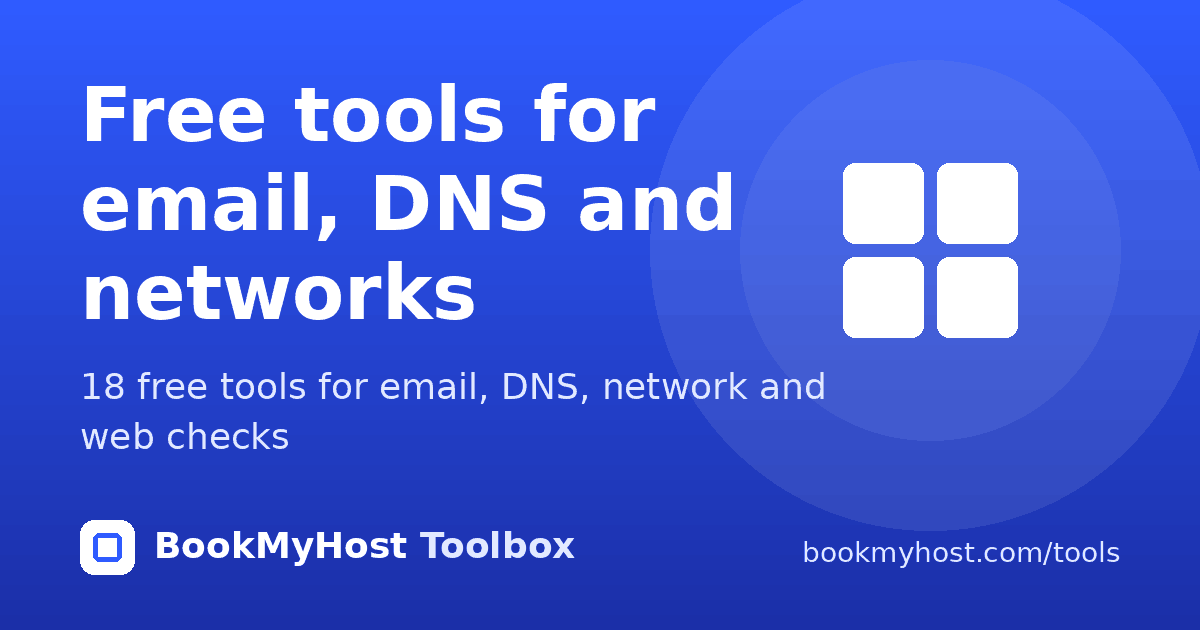
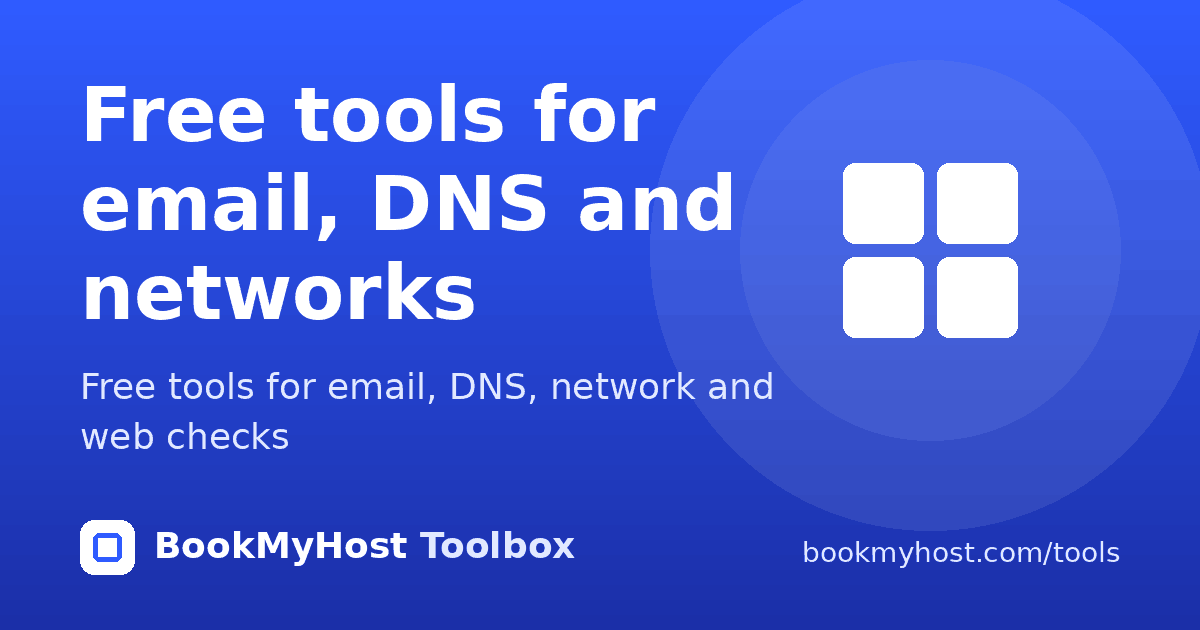
toolbox gui-v3 slice B: problem-first hub, filter, recents, single calculator listing

Changed region(s): [[0.0617, 0.573, 0.7092, 0.6333]]

diff --git a/app/templates/index.html b/app/templates/index.html
@@ -1,30 +1,77 @@
 {% extends "shell.html" %}
 {% from "_icons.html" import icon %}
-{% block intro %}
-<h1 class="text-3xl font-bold mb-2">Free network and DNS tools</h1>
-<p class="text-mute max-w-2xl mb-8">Fast, single-purpose tools built by the BookMyHost engineering team for our own day-to-day work: no sign-up, no ads, each with a JSON API. Results come with a plain-English summary and, where it helps, steps to fix the problem.</p>
+{% set by_slug = {} %}
+{% for t in tools %}{% set _ = by_slug.update({t.slug: t}) %}{% endfor %}
+{% macro card(it, g, by_slug) -%}
+{% set t = by_slug[it.slug] -%}
+<a href="{{ it.href }}" class="card tool-card" data-cat="{{ g.key }}" data-search="{{ ([it.name, t.short, (t.keywords or [])|join(' '), g.label]|join(' '))|lower }}">
+  <span class="tool-card-head"><span class="tool-card-icon">{{ icon(it.icon, "w-5 h-5") }}</span><span class="tool-card-name">{{ it.name }}</span></span>
+  <span class="tool-card-short">{{ t.short }}</span>
+  <span class="tool-card-pills">
+    {%- if t.badge == "popular" %}<span class="pill-pop">Popular</span>{% endif -%}
+    {%- if t.badge == "new" %}<span class="pill-new">New</span>{% endif -%}
+    {%- if t.client_only %}<span class="pill-meta">Runs in your browser</span>{% endif -%}
+    {%- if t.heavy %}<span class="pill-meta">Verification</span>{% endif -%}
+  </span>
+</a>
+{%- endmacro %}
+{% block hero %}
+<h1 class="text-3xl font-bold mb-2">Free email, DNS and network tools</h1>
+<p class="text-mute max-w-2xl mb-4">Fast, single-purpose tools built by the BookMyHost engineering team for our own day-to-day work: no sign-up, no ads, each with a JSON API. Results come with a plain-English summary and, where it helps, steps to fix the problem.</p>
 {% endblock %}
 {% block content %}
-{% for g in tool_groups %}
-<section class="mb-8" id="cat-{{ g.key }}">
-  <h2 class="text-sm font-bold uppercase tracking-wide text-mute mb-3">{{ g.label }}</h2>
-  <div class="grid gap-4 sm:grid-cols-2 lg:grid-cols-3">
-  {% for it in g["items"] %}
-    {% if it.external %}
-    <a href="{{ it.href }}" rel="noopener" class="card p-5 block no-underline hover:no-underline hover:border-accent">
-      <div class="flex items-center gap-2 text-accent mb-2">{{ icon(it.icon, "w-5 h-5") }}</div>
-      <h3 class="text-base font-semibold text-ink mb-1">{{ it.name }}</h3>
-      <p class="text-sm text-mute">{% for c in calculators if c.name == it.name %}{{ c.short }}{% endfor %}</p>
+<section class="mb-8" aria-labelledby="qs-h">
+  <h2 id="qs-h" class="hub-h2">Start with a problem</h2>
+  <div class="qs-grid">
+  {% for q in quick_starts %}{% set t = by_slug[q.slug] %}
+    <a href="{{ prefix }}/{{ q.slug }}" class="card qs-card">
+      <span class="qs-icon">{{ icon(t.icon, "w-5 h-5") }}</span>
+      <span class="qs-label">{{ q.label }}</span>
+      <span class="qs-hint">{{ q.hint }}</span>
     </a>
-    {% else %}
-    <a href="{{ it.href }}" class="card p-5 block no-underline hover:no-underline hover:border-accent">
-      <div class="flex items-center gap-2 text-accent mb-2">{{ icon(it.icon, "w-5 h-5") }}</div>
-      <h3 class="text-base font-semibold text-ink mb-1">{{ it.name }}</h3>
-      <p class="text-sm text-mute">{% for t in tools if t.slug == it.slug %}{{ t.short }}{% endfor %}</p>
-    </a>
-    {% endif %}
   {% endfor %}
   </div>
+</section>
+<section id="hub-recent" class="mb-6" aria-label="Recently used" hidden>
+  <h2 class="hub-h2">Recently used</h2>
+  <div id="hub-recent-list" class="flex flex-wrap gap-2"></div>
+</section>
+<div class="hub-filter" id="hub-filterbar">
+  <input id="hub-filter" type="search" class="hub-filter-input" aria-label="Filter tools" placeholder="Filter tools, e.g. spam, ssl, traceroute" autocomplete="off">
+  <div class="hub-chips" role="group" aria-label="Filter by category">
+    <button type="button" class="chip-cat" data-chip="all" aria-pressed="true">All</button>
+    {% for g in tool_groups if g.key != "calc" %}<button type="button" class="chip-cat" data-chip="{{ g.key }}" aria-pressed="false">{{ g.label }}</button>{% endfor %}
+  </div>
+  <p id="hub-count" class="hub-count" aria-live="polite">{{ tools|length }} tools</p>
+</div>
+<p id="hub-empty" class="card p-5 text-sm text-mute mb-8" hidden>No tool matches that filter. Clear it, or <a href="#" id="hub-empty-omni">use the omnibox</a> to paste a domain, IP or ASN.</p>
+{% for g in tool_groups if g.key != "calc" %}
+<section class="mb-8 hub-sec" id="cat-{{ g.key }}" data-sec="{{ g.key }}">
+  <h2 class="hub-h2">{{ g.label }} <span class="hub-sec-count" data-sec-count>{{ g.count }}</span></h2>
+  {% if g.subgroups %}
+    {% for sg in g.subgroups if sg.tools %}
+    <div class="hub-sub" data-sub>
+      <h3 class="hub-h3">{{ sg.label }}</h3>
+      <div class="tool-grid">{% for it in sg.tools %}{{ card(it, g, by_slug) }}{% endfor %}</div>
+    </div>
+    {% endfor %}
+  {% else %}
+    <div class="tool-grid">{% for it in g["items"] %}{{ card(it, g, by_slug) }}{% endfor %}</div>
+  {% endif %}
+</section>
+{% endfor %}
+{% for g in tool_groups if g.key == "calc" %}
+<section class="mb-8" id="cat-calc">
+  <h2 class="hub-h2">More from BookMyHost</h2>
+  <div class="tool-grid">
+  {% for it in g["items"] %}{% for c in calculators if c.name == it.name %}
+    <a href="{{ it.href|replace("://www.", "://") }}" rel="noopener" class="card tool-card">
+      <span class="tool-card-head"><span class="tool-card-icon">{{ icon(it.icon, "w-5 h-5") }}</span><span class="tool-card-name">{{ it.name }}</span>{{ icon("external", "w-3 h-3 opacity-60") }}</span>
+      <span class="tool-card-short">{{ c.short }}</span>
+    </a>
+  {% endfor %}{% endfor %}
+  </div>
+  <p class="text-sm text-mute mt-3"><a href="https://bookmyhost.com/free-tools" class="font-semibold">All free tools</a> on bookmyhost.com, plus the India cloud uptime and latency report.</p>
 </section>
 {% endfor %}
 <section class="mt-10 card p-5 text-sm text-mute">
@@ -32,14 +79,7 @@
   <p>Every tool is also an endpoint under <code class="mono">{{ api }}/</code> with OpenAPI docs at <a href="{{ api }}/docs">{{ api }}/docs</a>. Limit: {{ rate_per_min }} requests per minute per IP.</p>
   <pre class="snippet mono mt-3">curl -s -X POST {{ base_url }}{{ api }}/subnet/calc -H 'Content-Type: application/json' -d '{"cidr":"10.0.0.0/22"}'</pre>
 </section>
-<section class="mt-8 card p-5">
-  <h2 class="text-lg font-bold mb-1 text-ink">More free tools for India</h2>
-  <p class="text-sm text-mute mb-4">Cost, sizing and latency calculators for Indian cloud servers, on bookmyhost.com.</p>
-  <ul class="grid gap-3 sm:grid-cols-2 text-sm">
-    <li><a href="https://bookmyhost.com/free-tools/cloud-cost-gst-calculator" class="font-semibold">Cloud cost and GST calculator</a><br><span class="text-mute">Monthly cost of a server with 18% GST and the TDS and wallet maths.</span></li>
-    <li><a href="https://bookmyhost.com/free-tools/vps-sizing-calculator" class="font-semibold">VPS sizing calculator</a><br><span class="text-mute">vCPU, RAM and disk for your workload, with a plan to match.</span></li>
-    <li><a href="https://bookmyhost.com/free-tools/noida-latency-test" class="font-semibold">Noida latency test</a><br><span class="text-mute">Measure round-trip time from your browser to our Noida data centre.</span></li>
-    <li><a href="https://bookmyhost.com/free-tools" class="font-semibold">All free tools</a><br><span class="text-mute">The full hub, plus the India cloud uptime and latency report.</span></li>
-  </ul>
-</section>
+{% endblock %}
+{% block scripts %}
+<script type="module" src="{{ static_url('js/hub.js') }}" nonce="{{ csp_nonce }}"></script>
 {% endblock %}

diff --git a/assets/hub.css b/assets/hub.css
@@ -1,0 +1,32 @@
+/* Hub page components (slice B). Imported from tools.css. */
+.hub-h2 { font-size: .8rem; font-weight: 700; text-transform: uppercase; letter-spacing: .05em; color: var(--mute); margin-bottom: .75rem; }
+.hub-h3 { font-size: .8rem; font-weight: 600; color: var(--mute); margin: .25rem 0 .5rem; }
+.hub-sub { margin-bottom: 1rem; }
+.hub-sec-count { font-weight: 500; opacity: .7; margin-left: .25rem; }
+.qs-grid, .tool-grid { display: grid; gap: .75rem; grid-template-columns: repeat(2, minmax(0, 1fr)); }
+@media (min-width: 1024px) { .qs-grid, .tool-grid { grid-template-columns: repeat(3, minmax(0, 1fr)); gap: 1rem; } }
+@media (max-width: 479px) { .tool-grid { grid-template-columns: minmax(0, 1fr); } }
+.qs-card, .tool-card { display: flex; flex-direction: column; gap: .25rem; padding: 1rem; text-decoration: none; color: var(--ink); }
+.qs-card:hover, .tool-card:hover { text-decoration: none; border-color: var(--accent); }
+.qs-card:focus-visible, .tool-card:focus-visible { outline: 2px solid var(--accent); outline-offset: 2px; }
+.qs-icon, .tool-card-icon { color: var(--accent); display: inline-flex; }
+.qs-label { font-weight: 600; font-size: .95rem; }
+.qs-hint, .tool-card-short { font-size: .85rem; color: var(--mute); }
+.tool-card-head { display: flex; align-items: center; gap: .5rem; }
+.tool-card-name { font-weight: 600; font-size: 1rem; }
+.tool-card-pills { display: flex; flex-wrap: wrap; gap: .35rem; margin-top: .35rem; }
+.pill-new, .pill-pop, .pill-meta { font-size: .7rem; line-height: 1; padding: .25rem .5rem; border-radius: 999px; border: 1px solid var(--line); }
+.pill-new { background: var(--ok-bg); color: var(--ok); border-color: transparent; font-weight: 600; }
+.pill-pop { background: var(--accent-soft); color: var(--accent); border-color: transparent; font-weight: 600; }
+.pill-meta { background: var(--surface2); color: var(--mute); }
+.hub-filter { background: var(--bg); padding: .75rem 0; margin-bottom: 1rem; display: flex; flex-direction: column; gap: .5rem; z-index: 10; }
+@media (min-width: 1024px) { .hub-filter { position: sticky; top: 0; } }
+.hub-filter-input { width: 100%; padding: .6rem .8rem; border: 1px solid var(--line); border-radius: .6rem; background: var(--surface); color: var(--ink); }
+.hub-filter-input:focus-visible { outline: 2px solid var(--accent); outline-offset: 1px; }
+.hub-chips { display: flex; flex-wrap: wrap; gap: .4rem; }
+.chip-cat, .chip-link { font-size: .8rem; padding: .35rem .75rem; border-radius: 999px; border: 1px solid var(--line); background: var(--surface); color: var(--ink); cursor: pointer; text-decoration: none; }
+.chip-cat:hover, .chip-link:hover { border-color: var(--accent); text-decoration: none; }
+.chip-cat[aria-pressed="true"] { background: var(--accent); color: var(--accent-ink); border-color: var(--accent); }
+.chip-cat:focus-visible, .chip-link:focus-visible { outline: 2px solid var(--accent); outline-offset: 2px; }
+.hub-count { font-size: .8rem; color: var(--mute); }
+.hub-sec[hidden], .hub-sub[hidden], .tool-card[hidden], #hub-empty[hidden], #hub-recent[hidden] { display: none; }

diff --git a/app/static/js/hub.js b/app/static/js/hub.js
@@ -1,0 +1,74 @@
+/* Hub page: filter tools by text + category chip (AND), fill "Recently used". Text is set via textContent only. */
+import { getRecent } from './ui/recent.js';
+
+const cfg = (() => { try { return JSON.parse(document.getElementById('toolbox-config').textContent); } catch { return { prefix: '/tools', tools: [] }; } })();
+const $ = (s, r = document) => r.querySelector(s);
+const $$ = (s, r = document) => [...r.querySelectorAll(s)];
+
+const input = $('#hub-filter');
+const chips = $$('.chip-cat');
+const cards = $$('.tool-card[data-search]');
+const count = $('#hub-count');
+const empty = $('#hub-empty');
+let cat = 'all';
+
+function apply() {
+  const q = (input ? input.value : '').trim().toLowerCase();
+  const words = q.split(/\s+/).filter(Boolean);
+  let n = 0;
+  for (const c of cards) {
+    const ok = (cat === 'all' || c.dataset.cat === cat) && words.every((w) => c.dataset.search.includes(w));
+    c.hidden = !ok;
+    if (ok) n++;
+  }
+  for (const sub of $$('[data-sub]')) sub.hidden = !$$('.tool-card', sub).some((c) => !c.hidden);
+  for (const sec of $$('.hub-sec')) {
+    const vis = $$('.tool-card', sec).filter((c) => !c.hidden).length;
+    sec.hidden = vis === 0;
+    const sc = $('[data-sec-count]', sec);
+    if (sc) sc.textContent = String(vis);
+  }
+  if (count) count.textContent = `${n} ${n === 1 ? 'tool' : 'tools'}`;
+  if (empty) empty.hidden = n !== 0;
+}
+
+if (input) input.addEventListener('input', apply);
+for (const b of chips) {
+  b.addEventListener('click', () => {
+    cat = b.dataset.chip;
+    for (const o of chips) o.setAttribute('aria-pressed', o === b ? 'true' : 'false');
+    apply();
+  });
+}
+
+const omniLink = $('#hub-empty-omni');
+if (omniLink) {
+  omniLink.addEventListener('click', (e) => {
+    e.preventDefault();
+    const o = $('#omnibox') || $('[data-omnibox]') || $('input[type="search"]:not(#hub-filter)');
+    if (o) o.focus();
+  });
+}
+
+(function recents() {
+  const box = $('#hub-recent');
+  const list = $('#hub-recent-list');
+  if (!box || !list) return;
+  let slugs = [];
+  try { slugs = getRecent() || []; } catch { slugs = []; }
+  const byslug = new Map((cfg.tools || []).map((t) => [t.slug, t]));
+  let shown = 0;
+  for (const s of slugs) {
+    const t = byslug.get(s);
+    if (!t || shown >= 4) continue;
+    const a = document.createElement('a');
+    a.className = 'chip-link';
+    a.href = `${cfg.prefix}/${t.slug}`;
+    a.textContent = t.name;
+    list.appendChild(a);
+    shown++;
+  }
+  if (shown) box.hidden = false;
+})();
+
+apply();

diff --git a/app/static/js/ui/recent.js b/app/static/js/ui/recent.js
@@ -1,0 +1,17 @@
+/* Recently used tools (localStorage "bmh-recent"), newest first, max 6. */
+const KEY = 'bmh-recent';
+const MAX = 6;
+
+export function getRecent() {
+  try {
+    const v = JSON.parse(localStorage.getItem(KEY) || '[]');
+    return Array.isArray(v) ? v.filter((s) => typeof s === 'string').slice(0, MAX) : [];
+  } catch { return []; }
+}
+
+export function pushRecent(slug) {
+  try {
+    const next = [slug, ...getRecent().filter((s) => s !== slug)].slice(0, MAX);
+    localStorage.setItem(KEY, JSON.stringify(next));
+  } catch { /* storage unavailable */ }
+}

diff --git a/assets/tools.css b/assets/tools.css
@@ -1,3 +1,4 @@
+@import "./hub.css";
 /* Source for app/static/css/tools.css (built at image build time by the Tailwind standalone CLI, minified).
    Theming: CSS variables. Light is the default; dark follows prefers-color-scheme unless the visitor chose a
    theme (html[data-theme]). Brand accent is --accent so embeds can override it (?accent=#hex). */

diff --git a/tests/test_hub_v3.py b/tests/test_hub_v3.py
@@ -1,0 +1,59 @@
+"""Hub page (gui-v3 slice B): quick starts, filter hooks, card search data, calculator links, hub.js imports."""
+import re
+from pathlib import Path
+
+import pytest
+from httpx import ASGITransport, AsyncClient
+
+from app.core.config import CATEGORIES, QUICK_STARTS, TOOLS
+from app.main import app
+
+SLUGS = {t["slug"] for t in TOOLS}
+@pytest.fixture
+async def client():
+    async with AsyncClient(transport=ASGITransport(app=app), base_url="http://test") as c:
+        yield c
+
+
+HUB_JS = Path(__file__).resolve().parent.parent / "app" / "static" / "js" / "hub.js"
+
+
+async def test_quick_start_links(client):
+    t = (await client.get("/tools/")).text
+    assert len(QUICK_STARTS) == 6
+    for q in QUICK_STARTS:
+        assert q["slug"] in SLUGS
+        assert f'href="/tools/{q["slug"]}" class="card qs-card"' in t
+    assert "Start with a problem" in t
+
+
+async def test_filter_and_sections(client):
+    t = (await client.get("/tools/")).text
+    assert 'id="hub-filter"' in t and 'aria-label="Filter tools"' in t and 'aria-live="polite"' in t
+    assert 'id="hub-recent"' in t
+    for c in CATEGORIES:
+        assert f'id="cat-{c["key"]}"' in t
+    assert t.count("class=\"chip-cat\"") == 1 + len([c for c in CATEGORIES if c["key"] != "calc"])
+
+
+async def test_every_tool_card_has_search_data_once(client):
+    t = (await client.get("/tools/")).text
+    cards = re.findall(r'<a href="(/tools/[^"]+)" class="card tool-card" data-cat="[a-z]+" data-search="([^"]+)"', t)
+    assert sorted(h.rsplit("/", 1)[1] for h, _ in cards) == sorted(SLUGS)
+    assert all(s.strip() for _, s in cards)
+    assert "18% GST" in t  # calculator card copy still present
+
+
+async def test_free_tools_urls_listed_once_each(client):
+    t = (await client.get("/tools/")).text
+    for path in ["/free-tools", "/free-tools/cloud-cost-gst-calculator",
+                 "/free-tools/vps-sizing-calculator", "/free-tools/noida-latency-test"]:
+        assert f'href="https://bookmyhost.com{path}"' in t
+    assert "More free tools for India" not in t
+
+
+def test_hub_js_relative_imports_only():
+    src = HUB_JS.read_text(encoding="utf-8")
+    specs = re.findall(r"""import\s[^;]*?from\s+['"]([^'"]+)['"]""", src)
+    assert specs and all(s.startswith("./") or s.startswith("../") for s in specs)
+    assert "innerHTML" not in src
